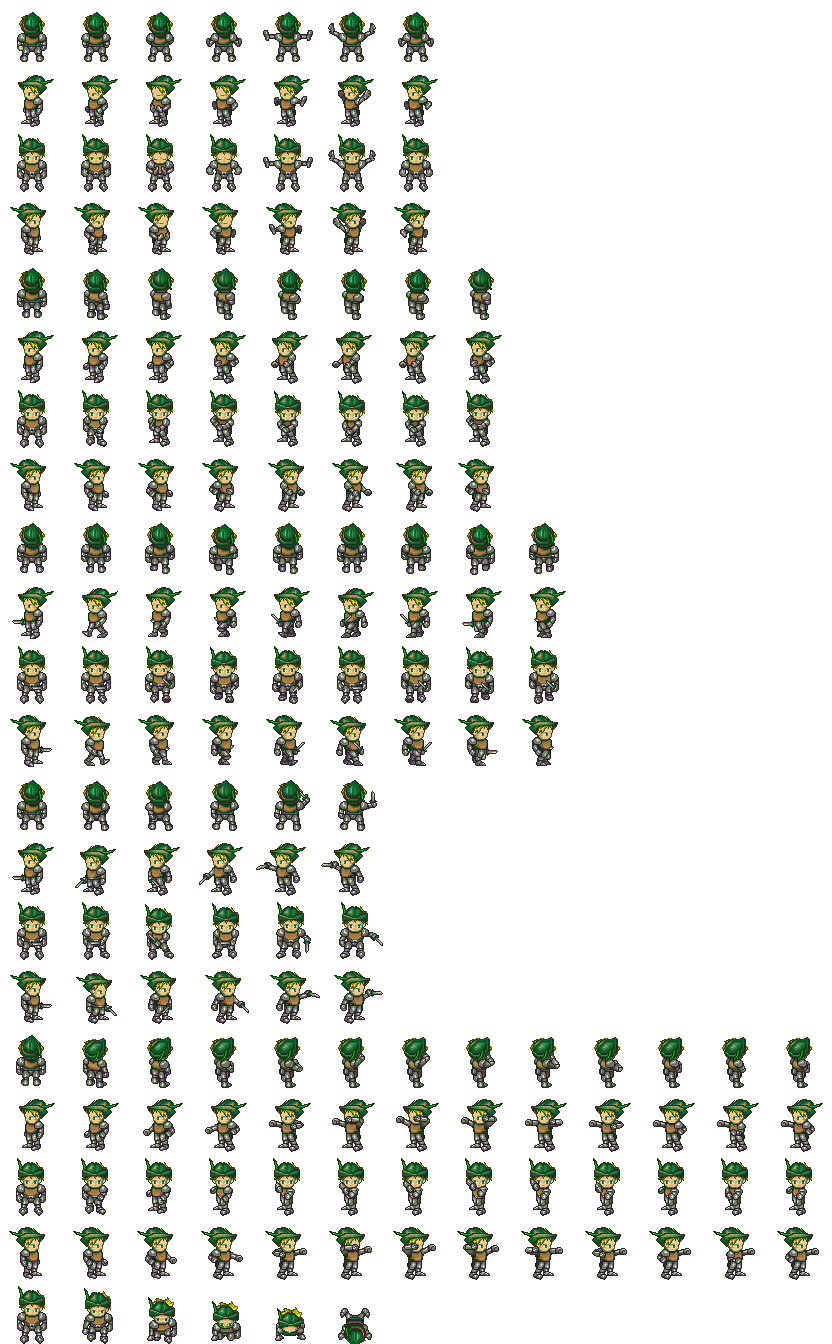
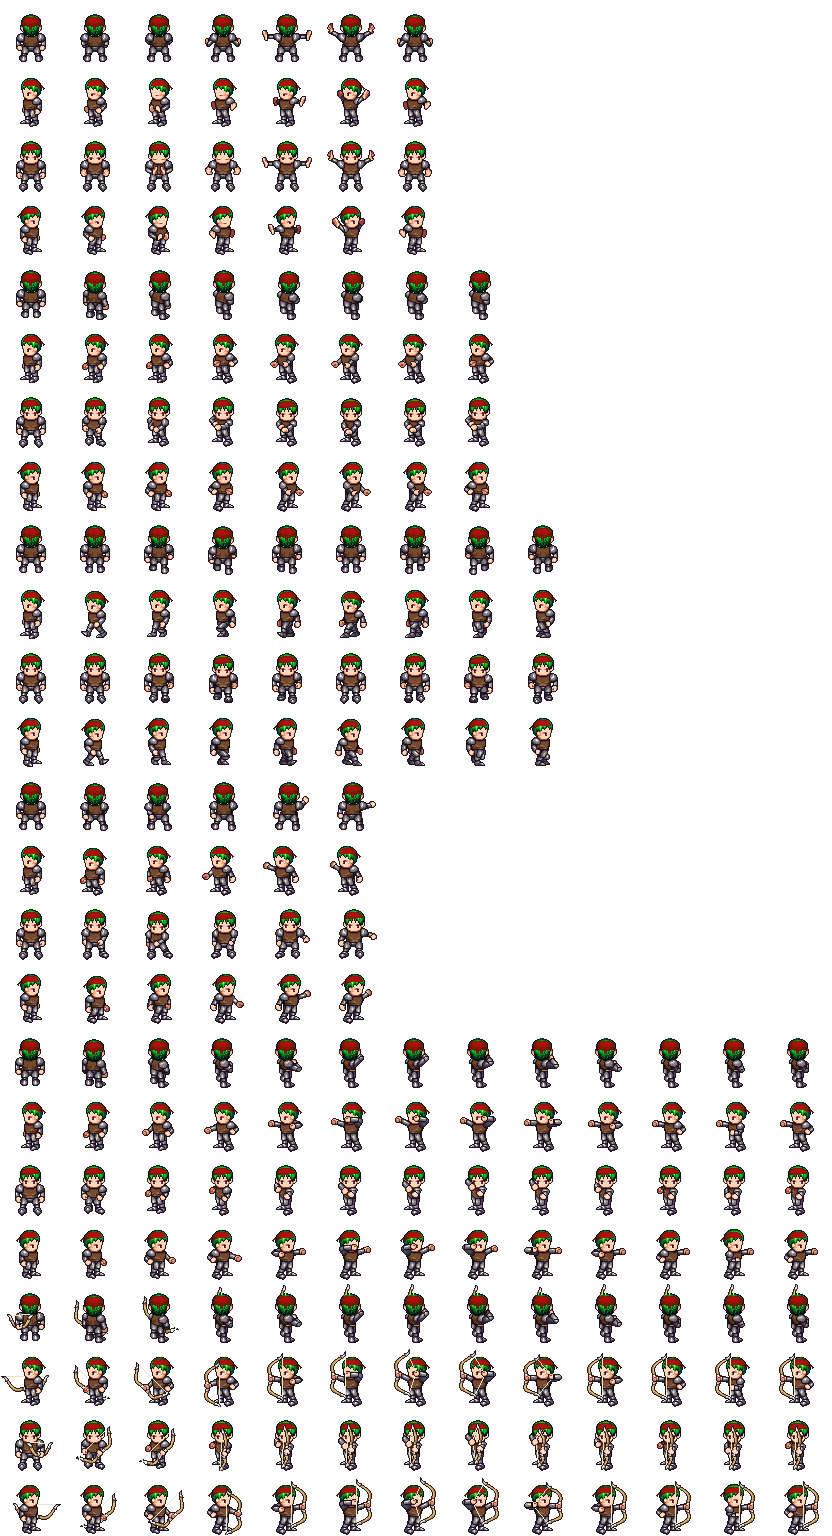
Adiciona Posicão de Arco e Flecha

diff --git a/js/Map.js b/js/Map.js
@@ -82,26 +82,26 @@ Map.prototype.desenharTiles = function(ctx) {
         case 0:
         case 3:
         case 6:
-          this.imageLib.drawImageTile(ctx, "elem", (lvl % 4), 4, 40, j*this.SIZE, i*this.SIZE); //desenha o chao coluna 4
+          this.imageLib.drawImageTile(ctx, "elem", (lvl % 5), 4, 40, j*this.SIZE, i*this.SIZE); //desenha o chao coluna 4
           break;
         case 1:
-          this.imageLib.drawImageTile(ctx, "elem", (lvl % 4), 4, 40, j*this.SIZE, i*this.SIZE);
-          this.imageLib.drawImageTile(ctx, "elem", (lvl % 4), 5, 40, j*this.SIZE, i*this.SIZE); // desenha estrutura coluna 5
+          this.imageLib.drawImageTile(ctx, "elem", (lvl % 5), 4, 40, j*this.SIZE, i*this.SIZE);
+          this.imageLib.drawImageTile(ctx, "elem", (lvl % 5), 5, 40, j*this.SIZE, i*this.SIZE); // desenha estrutura coluna 5
           break;
         case 2:
-          this.imageLib.drawImageTile(ctx, "elem", (lvl % 4), 4, 40, j*this.SIZE, i*this.SIZE); 
-          this.imageLib.drawImageTile(ctx, "elem", (lvl % 4), 0, 40, j*this.SIZE, i*this.SIZE); // desenha porta fechada coluna 0
+          this.imageLib.drawImageTile(ctx, "elem", (lvl % 5), 4, 40, j*this.SIZE, i*this.SIZE); 
+          this.imageLib.drawImageTile(ctx, "elem", (lvl % 5), 0, 40, j*this.SIZE, i*this.SIZE); // desenha porta fechada coluna 0
           break;
         case 4:
-          this.imageLib.drawImageTile(ctx, "elem", (lvl % 4), 4, 40, j*this.SIZE, i*this.SIZE);
-          this.imageLib.drawImageTile(ctx, "elem", (lvl % 4), 1, 40, j*this.SIZE, i*this.SIZE); // desenha porta aberta coluna 1
+          this.imageLib.drawImageTile(ctx, "elem", (lvl % 5), 4, 40, j*this.SIZE, i*this.SIZE);
+          this.imageLib.drawImageTile(ctx, "elem", (lvl % 5), 1, 40, j*this.SIZE, i*this.SIZE); // desenha porta aberta coluna 1
           break;
         case 5:
-          this.imageLib.drawImageTile(ctx, "elem", (lvl % 4), 4, 40, j*this.SIZE, i*this.SIZE);
+          this.imageLib.drawImageTile(ctx, "elem", (lvl % 5), 4, 40, j*this.SIZE, i*this.SIZE);
           this.imageLib.drawImageTile(ctx, "elem", 0, 2, 40, j*this.SIZE, i*this.SIZE); // desenha chave coluna 2
           break;
         case 7: 
-          this.imageLib.drawImageTile(ctx, "elem", (lvl % 4), 4, 40, j*this.SIZE, i*this.SIZE);
+          this.imageLib.drawImageTile(ctx, "elem", (lvl % 5), 4, 40, j*this.SIZE, i*this.SIZE);
           this.imageLib.drawImageTile(ctx, "elem", 0, 3, 40, j*this.SIZE, i*this.SIZE); // desenha vida coluna 3
           break;
         default:
@@ -205,39 +205,43 @@ Map.prototype.tiro = function(ctx, x, y, dir){
   tiro.SIZE = 20;
   //tiro.color = "yellow";
   pc.tiro = 1;
-  tiro.tempo = 1;
+  tiro.tempo = dt;
   switch (dir){
     case 1:
       tiro.tamx =  10;
       tiro.tamy =  20;
 
-      pc.pose = 10;
+      if(weap == 4 || weap == 8) pc.pose = 10;
+      else if(weap == 0) pc.pose = 17;
       tiro.vx = -150;
-      tiro.poses = [{key: "fc"+ weap, row: 0, col: 0, colMax: 0, time: 8}];
+      tiro.poses = [{key: "fc"+ weap, row: 0, col: 0, colMax: 3, time: 8}];
     break;
     case 2:
       tiro.tamx =  30;
       tiro.tamy =  20;
 
-      pc.pose = 11;
+      if(weap == 4 || weap == 8) pc.pose = 11;
+      else if(weap == 0) pc.pose = 20;
       tiro.vy = -150;
-      tiro.poses = [{key: "fc"+ weap, row: 1, col: 0, colMax: 0, time: 8}];
+      tiro.poses = [{key: "fc"+ weap, row: 1, col: 0, colMax: 3, time: 8}];
     break;
     case 3:
       tiro.tamx =  40;
       tiro.tamy =  30;
 
-      pc.pose = 8;
+      if(weap == 4 || weap == 8) pc.pose = 8;
+      else if(weap == 0) pc.pose = 19;
       tiro.vx = +150;
-      tiro.poses = [{key: "fc"+ weap, row: 2, col: 0, colMax: 0, time: 8}];
+      tiro.poses = [{key: "fc"+ weap, row: 2, col: 0, colMax: 3, time: 8}];
     break;
     case 4:
       tiro.tamx =  30;
       tiro.tamy =  -20;
 
-      pc.pose = 9;
+      if(weap == 4 || weap == 8) pc.pose = 9;
+      else if(weap == 0) pc.pose = 18;
       tiro.vy = +150;
-      tiro.poses = [{key: "fc"+ weap, row: 3, col: 0, colMax: 0, time: 8}];
+      tiro.poses = [{key: "fc"+ weap, row: 3, col: 0, colMax: 3, time: 8}];
     break
   }
   this.tiros.push(tiro);
@@ -289,7 +293,7 @@ Map.prototype.moverInimigosOnMap = function(map, dt) {
 
 Map.prototype.desenharTiros = function(ctx) {
   for (var i = 0; i < this.tiros.length; i++) {
-    this.tiros[i].desenhar(ctx);
+    this.tiros[i].desenharTiro(ctx);
   }    
 }
 
@@ -363,7 +367,7 @@ Map.prototype.alterarLevel = function(map){
     this.cont = 0;
     this.enemies.length = 0;
 
-    if ((lvl % 4) == 0){
+    if ((lvl % 5) == 0){
       casasMapa=([
         [1,1,1,1,1,1,1,1,1,1,1,1,1,1,1,1,1,1,1,1],
         [1,0,0,0,0,1,0,9,0,0,1,0,0,1,0,0,0,0,0,1],
@@ -378,7 +382,7 @@ Map.prototype.alterarLevel = function(map){
         [1,0,9,0,0,0,0,0,0,0,0,9,0,0,0,0,0,1,1,1],
         [1,1,1,1,1,1,1,1,1,1,1,1,1,1,1,1,1,1,1,1]
       ]);
-    } else if ((lvl % 4) == 1){
+    } else if ((lvl % 5) == 1){
       casasMapa=([
         [1,1,1,1,1,1,1,1,1,1,1,1,1,1,1,1,1,1,1,1],
         [1,0,0,0,0,1,1,0,9,0,1,1,1,0,1,1,0,9,2,1],
@@ -393,7 +397,7 @@ Map.prototype.alterarLevel = function(map){
         [1,0,0,0,1,1,1,0,0,1,1,0,0,0,0,0,0,9,0,1],
         [1,1,1,1,1,1,1,1,1,1,1,1,1,1,1,1,1,1,1,1]
       ]);      
-    } else if ((lvl % 4) == 2){
+    } else if ((lvl % 5) == 2){
       casasMapa=([
         [1,1,1,1,1,1,1,1,1,1,1,1,1,1,1,1,1,1,1,1],
         [1,0,0,0,0,1,1,0,0,9,0,0,9,0,0,1,0,0,2,1],
@@ -408,7 +412,7 @@ Map.prototype.alterarLevel = function(map){
         [1,0,0,0,1,1,1,1,1,1,0,0,0,0,0,0,0,0,9,1],
         [1,1,1,1,1,1,1,1,1,1,1,1,1,1,1,1,1,1,1,1]
       ]);      
-    } else if ((lvl % 4) == 3){
+    } else if ((lvl % 5) == 3){
       casasMapa=([
         [1,1,1,1,1,1,1,1,1,1,1,1,1,1,1,1,1,1,1,1],
         [1,0,0,1,0,0,0,0,0,0,0,0,0,9,9,0,0,9,0,1],
@@ -421,6 +425,21 @@ Map.prototype.alterarLevel = function(map){
         [1,0,3,1,0,0,0,0,0,0,0,9,0,1,0,0,0,9,9,1],
         [1,0,1,1,1,0,0,1,9,0,0,1,0,1,0,9,0,1,0,1],
         [1,9,1,1,1,9,0,0,0,0,0,0,9,0,0,0,1,1,1,1],
+        [1,1,1,1,1,1,1,1,1,1,1,1,1,1,1,1,1,1,1,1]
+      ]);      
+    } else if ((lvl % 5) == 4){
+      casasMapa=([
+        [1,1,1,1,1,1,1,1,1,1,1,1,1,1,1,1,1,1,1,1],
+        [1,0,0,0,0,0,0,0,0,0,0,0,0,9,9,0,0,9,0,1],
+        [1,0,0,0,0,0,1,0,0,0,0,0,0,0,0,0,0,1,9,1],
+        [1,2,0,0,0,0,0,0,1,0,0,0,0,0,0,0,0,1,0,1],
+        [1,1,1,0,0,0,0,0,0,0,0,0,0,0,0,0,9,0,0,1],
+        [1,9,0,0,1,0,0,0,0,0,1,0,9,0,9,1,0,1,0,1],
+        [1,1,1,1,0,1,0,0,9,0,0,0,0,9,1,0,1,1,1,1],
+        [1,0,0,0,0,0,0,0,1,1,0,0,0,0,0,0,0,0,0,1],
+        [1,0,0,0,0,0,0,0,0,0,0,9,0,1,0,0,0,9,9,1],
+        [1,0,1,0,1,0,0,1,9,0,0,1,0,1,0,9,0,0,0,1],
+        [1,9,1,3,1,9,0,0,0,0,0,0,9,0,0,0,1,0,6,1],
         [1,1,1,1,1,1,1,1,1,1,1,1,1,1,1,1,1,1,1,1]
       ]);      
     }

diff --git a/js/Sprite.js b/js/Sprite.js
@@ -31,6 +31,16 @@ function Sprite() {
     {key: "pc", row: 17, col: 2, colMax: 0, time: 8},
     {key: "pc", row: 16, col: 2, colMax: 0, time: 8},
 
+    {key: "pc", row: 20, col: 2, colMax: 12, time: 12},
+    {key: "pc", row: 21, col: 2, colMax: 12, time: 12},
+    {key: "pc", row: 22, col: 2, colMax: 12, time: 12},
+    {key: "pc", row: 23, col: 2, colMax: 12, time: 12},
+
+    {key: "pc", row: 20, col: 2, colMax: 0, time: 8},
+    {key: "pc", row: 21, col: 2, colMax: 0, time: 8},
+    {key: "pc", row: 22, col: 2, colMax: 0, time: 8},
+    {key: "pc", row: 23, col: 2, colMax: 0, time: 8},
+
   ];
   this.color = "black";   
 }
@@ -91,18 +101,18 @@ Sprite.prototype.mover = function(dt) {
 };
 
 Sprite.prototype.moverOnMap = function(map, dt) {
-  if(weap == 0) this.tiro-= 1.5 * dt;
+  if(weap == 0) this.tiro-= 1 * dt;
   if(weap == 4) this.tiro-= 3 * dt;
   if(weap == 8) this.tiro-= 8 * dt;
   
-  if (pc.pose == 10 && pc.tiro<= 0.5){
+  if ((pc.pose == 10 || pc.pose == 17) && pc.tiro<= 0.5){
     pc.pose = 6;
-  }else if (pc.pose == 11 && pc.tiro<= 0.5){
-    pc.pose = 7;
-  }else if (pc.pose == 8 && pc.tiro<= 0.5){
+  }else if ((pc.pose == 11 || pc.pose == 20) && pc.tiro<= 0.5){
     pc.pose = 4;
-  }else if (pc.pose == 9 && pc.tiro<= 0.5){
-    pc.pose = 5;
+  }else if ((pc.pose == 8 || pc.pose == 19) && pc.tiro<= 0.5){
+    pc.pose = 4;
+  }else if ((pc.pose == 9 || pc.pose == 18) && pc.tiro<= 0.5){
+    pc.pose = 6;
   }
 
   this.frame += this.poses[this.pose].time * dt;

diff --git a/js/Game.js b/js/Game.js
@@ -5,6 +5,10 @@ var dt = 0;
 var mapa, pc, imglib;
 var weap = 0; vida = 5, lvl = 0, aux = 1, inicio = 1;
 
+/*var telaInicial = new Image();
+telaInicial.src = "img/tela.png";
+ctx.drawImage(telaInicial, 0, 0, 800, 480);*/     //desenhar imagemdepois retirar
+
 function init(){
   tela = document.getElementsByTagName('canvas')[0];
   tela.width = 800 ;
@@ -43,7 +47,7 @@ function passo(){
   dt = (agora - antes)/1000; 
   ctx.clearRect(0,0, tela.width, tela.height);
 
-  imglib.load("pc", "img/pc"+ (lvl % 4) +".png");
+  imglib.load("pc", "img/pc"+ (lvl % 6) +".png");
   imglib.load("fc" + weap +"", "img/arma"+ weap +".png");  
   mapa.alterarLevel(mapa);
   mapa.revelarChave(mapa);
@@ -97,9 +101,7 @@ function detalhesGame(id){
   } 
 
   if(lvl == 0 && inicio == 1){
-    cancelAnimationFrame(id);
-
-    imglib.drawImageTile(ctx, "pc", 3, 0, 64, 150, 150);
+    cancelAnimationFrame(id);   
     
     var txt = "Welcome to the Game! ";
     var txt2 = "Comandos: "
